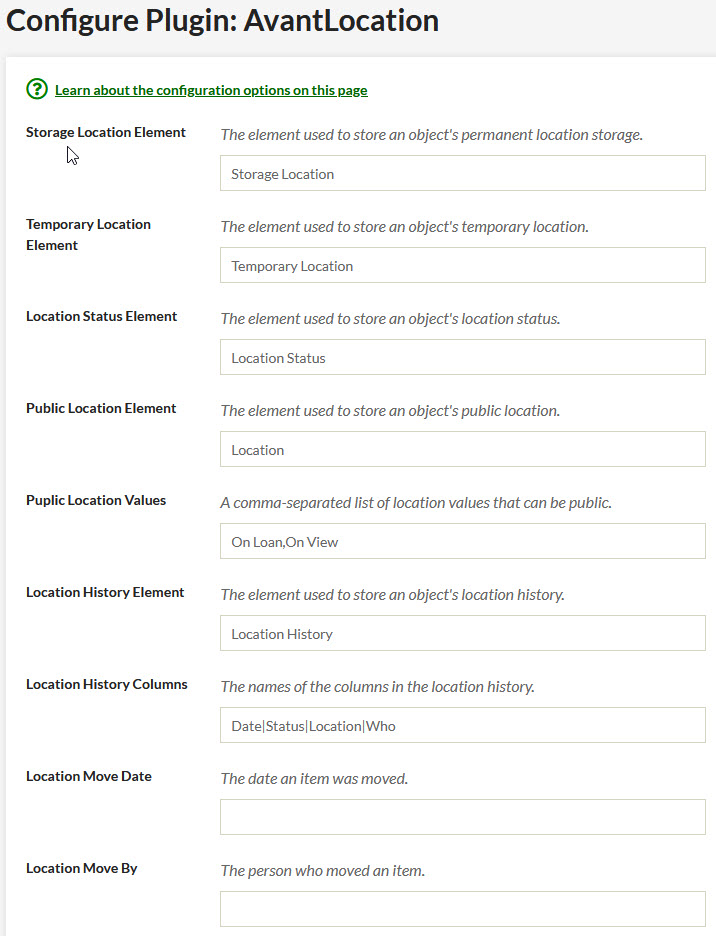
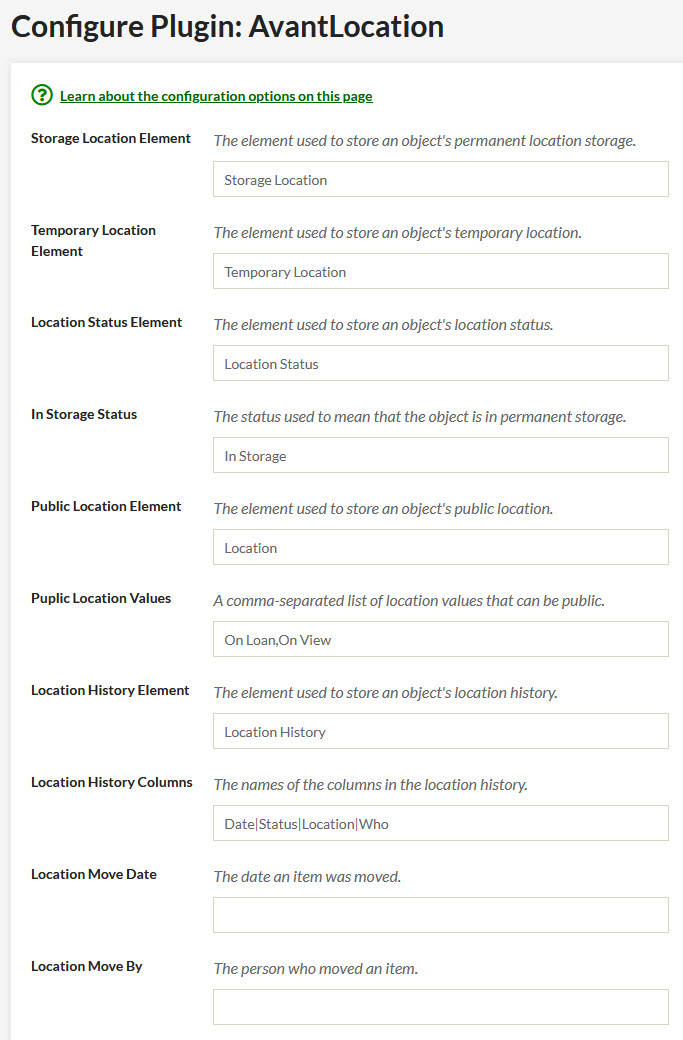
Content updates.

diff --git a/digital-archive/docs/plugins/avantlocation.md b/digital-archive/docs/plugins/avantlocation.md
@@ -1,8 +1,8 @@
 # AvantLocation
 
-The AvantLocation plugin provides a way for an organization, such as a museum, to track the physical location of an object over time as it moves from one location to another. For example, suppose you have a Digital Archive item for a bird carving that is in storage. You then move the object to be on view in the museum, later move it back to storage, then loan it to to another museum, and finally return it to storage. The plugin lets you record the dates and locations for each of these moves so that the object's Digital Archive item displays a history of where the object has been.
+The AvantLocation plugin provides a way for an organization, such as a museum, to track the physical location of an object over time as it moves from one place to another. For example, suppose you have a Digital Archive item for a bird carving that is in storage. You then move the object to be on view in the museum, later move it back to storage, then loan it to to another museum, and finally return it to storage. The plugin lets you record date and location for each move. When you view the object's Digital Archive item, you'll see a history of where the object has been.
 
-The plugin requires that you have defined four Omeka elements to store the following kinds of location information:
+The plugin operates on five Omeka elements that you create to store the following kinds of location information:
 
 - Permanent storage location
 - Temporary storage location
@@ -12,31 +12,33 @@ The plugin requires that you have defined four Omeka elements to store the follo
 
 You can use any names you like for the elements. You will tell the AvantLogic plugin the names of the elements using the configuration options described in the next section.
 
+You can create other location-related elements such as location notes, but the plugin does will do anything with them.
+
 ## Configuration options
 
-AvantLocation has several configuration options. A screenshot showing all the options appears at the end of this section. The first five options let your provide the names of the elements that you are using to track locations. The remaining options let you specify values that affect what information this plugin displays.
+AvantLocation has several configuration options. A screenshot showing all the options appears at the end of this section. The first five options let your provide the names of the elements that you are using to track locations. The remaining options let you specify values that affect what information the plugin displays.
 
 ---
 
 Storage Location Element
-:   Use this option to provide the name of the element that is used to record an object's permanent storage location. Typical values for this element would be a facility, room, shelf, bin, or folder. Use of the [Simple Vocab](https://omeka.org/classic/docs/Plugins/SimpleVocab/) plugin is a good way to provide a list of valid storage locations.
+:   Use this option to provide the name of the element that is used to record an object's permanent storage location. Typical values for this element would be a facility, room, shelf, bin, or folder. Use of the [Simple Vocab](https://omeka.org/classic/docs/Plugins/SimpleVocab/) plugin is a good way to provide a list of valid storage locations. You could also use a [suggest field](/plugins/avantelements/#suggest-option) for this element.
 
 Temporary Location Element
-:   Use this option to provide the name of the element that is used to record an object's temporary location when it is not in storage. Typical values will describe where the item resides on a temporary basis, for example, a gallery in your own museum, the name of another museum to which you have loaned the item, or the name of a restoration facility. Use of the [Simple Vocab](https://omeka.org/classic/docs/Plugins/SimpleVocab/) plugin is a good way to provide a list of valid temporary locations.
+:   Use this option to provide the name of the element that is used to record an object's temporary location when it is not in storage. The value describes where the item currently resides. Typical locations would be a gallery in your own museum, the name of another museum to which you have loaned the item, or the name of an offsite facility where the object is being restored. Use of the [Simple Vocab](https://omeka.org/classic/docs/Plugins/SimpleVocab/) plugin is a good way to provide a list of valid temporary locations.
 
-:   Think of the temporary location as any location that is not the permanent storage location. As such, when you move an object back to permanent storage, you should set the temporary location to blank. You can do this in one of two ways:
-
-    - Choose `<none>` from the dropdown list and the plugin will set the element to blank
-    - Choose `Select Below` from the dropdown list
+:   Think of the temporary location as *any location that is not the permanent storage location*. When you move an object back to permanent storage, the plugin will automatically set the temporary location to blank.
 
 Location Status Element
-:   Use this option to provide the name of the element that is used to record an object's location status. Typical values for this element would be On View, In Storage, and On Loan. Use of the [Simple Vocab](https://omeka.org/classic/docs/Plugins/SimpleVocab/) plugin is a good way to provide a list of valid status values.
+:   Use this option to provide the name of the element that is used to record an object's location status. Typical values for this element would be `On View`, `In Storage`, `On Loan`, or `Out for Restoration`. Use of the [Simple Vocab](https://omeka.org/classic/docs/Plugins/SimpleVocab/) plugin is a good way to provide a list of valid status values.
+
+In Storage Status
+:   Use this option to provide the text of the **Location Status** value that you use to mean that the object is in permanent storage. For example, set it to `In Storage`. It is important that the value you specify *exactly matches* the corresponding value used for the **Location Status** element.
 
 Public Location Element
-:   Use this option to provide the name of the read-only element that is used to store a location value this will be visible to the public. Leave the value blank if you don't show a location to the public. The Public Location element is discussed later in the [Public Location](/plugins/avantlocation/#public-location) section
+:   Use this option to provide the name of a read-only element that is used to store a location value this will be visible to the public. Leave this option blank if you never want to show a location to the public. The Public Location element is discussed later in the [Public Location](/plugins/avantlocation/#public-location) section
 
 Location History Element
-:   Use this option to provide the name of the element that is used to record an object's location history. The element should be a textarea field which is the default field type. This is explained later in the [Location History](/plugins/avantlocation/#location-history) section.
+:   Use this option to provide the name of the element that is used to record an object's location history. The element should be a textarea field which is the default field type. Location history is explained later in the [Location History](/plugins/avantlocation/#location-history) section.
 
 ---
 
@@ -50,7 +52,7 @@ Location Move Date
 :   Use this option to provide a date such as `2022-04-07` that the plugin will use when it automatically adds a new first row to the Location History element. Leave the value blank to use the current date.
 
 Location Move By
-:   Use this option to provide a the name of a person such as `gsmith` that the plugin will be use when it automatically adds a new first row to the Location History element. Leave the value blank to use the user name of the logged in Omeka user.
+:   Use this option to provide a the name of a person such as `jSmith` that the plugin will be use when it automatically adds a new first row to the Location History element. Leave the value blank to use the user name of the logged in Omeka user.
 
 ---
 Here is a screenshot showing all of the AvantLocation configuration options.
@@ -59,48 +61,70 @@ Here is a screenshot showing all of the AvantLocation configuration options.
 
 ---
 
+## What the plugin does
+
+The AvantLogic plugin automatically sets the values of these location tracking elements based on where you have indicated that an object has moved:
+
+-   **Location History**
+-   **Temporary Location**
+-   **Public Location**
+
+The behavior is designed to automatically track an object's movement with minimal effort on your part. In most cases, all you need to do is choose the **Location Status** and/or the **Temporary Location** and the plugin will update the history.
+
 ## How it works
 
-Whenever you change an object's location status and/or temporary location, the AvantLocation plugin does two things:
+When you edit and save an item to change an object's **Location Status** and/or **Temporary Location**, the AvantLocation plugin will:
 
-- Sets the value of the Public Location element
-- Adds a new first row to the Location History element
+- Add a new first row to the **Location History** element to show the new status and/or location.
+- If the **Location Status** is changed to the **In Storage Status** value, the plugin automatically sets the value of **Temporary Location** to blank.
+- If the **Location Status** is changed to anything except the **In Storage Status** value, the plugin will report an error if the  **Temporary Location** is blank.
+- Set the value of the read-only **Public Location** element to the new location, or to blank, as explained in the [Public Location](/plugins/avantlocation/#public-location) section below.
+
+When you edit and save an item to change an object's **Storage Location** and **Location Status** is set to the **In Storage Status** value, the AvantLocation plugin will:
+
+- Add a new first row to the **Location History** element to show the new storage location
 
 ### Public Location
 
-You will probably want to make all of your location tracking elements private so that the public cannot see them. There is one exception which is the Public Location element. This is an optional, read-only element that the AvantLocation plugin sets for you based based on the value of the private Location Status element and the values of the Public Location Values configuration option.
+You will probably want to make all of your location tracking elements private so that the public cannot see them. There is one exception which is the **Public Location** element. This is an optional, read-only element that the AvantLocation plugin automatically sets for you based on the value of the **Location Status** element and the value of the **Public Location Values** configuration option.
 
-In the screenshot above, the Public Location Values configuration option is set to `On Loan, On View`. Whenever the value of the Location Status element is set to one of those values, the plugin will set the Public Location element to the same value. But when the Location Status element is set to another value, the plugin will set the Public Location element to blank which means it will not appear at all to public users. For example, when the Location Status is set to `In Storage`, the Public Location element will be set to blank because `In Storage` does not match `On Loan` and `On View`.
+In the screenshot above, the **Public Location Values** configuration option is set to `On Loan,On View`. Whenever the value of the **Location Status** element is set to one of those values, the plugin will set the **Public Location** element to the same value. But when the **Location Status** element is set to another value, the plugin will set the **Public Location** element to blank so that it will not appear at all to public users. For example, when **Location Status** is set to `In Storage`, the **Public Location** element will be set to blank because `In Storage` does not match `On Loan` or `On View`.
 
 ### Location History
 
-The Location History element uses a textarea field to maintain a history in reverse-chronological order (most recent move appears at the top of the field). The AvantLogic plugin automatically adds a new first row to this field whenever you change an object's location status and/or temporary location. When the temporary location is not blank, the row shows the temporary location. When the temporary location is blank, the row shows the permanent location. This way you can see where the item has been, even when its permanent storage location has changed.
+The **Location History** element uses a textarea field to maintain a history in reverse-chronological order (most recent move appears at the top of the field). The AvantLogic plugin automatically adds a new first row to this field whenever you change an object's **Location Status** and/or **Temporary Location**. When **Temporary Location** is not blank, the row shows the **Temporary Location** value. When **Temporary Location** is blank, the row shows the **Storage Location** value.
+
+---
 
 **Editing location tracking fields**
 
-The screenshot below shows how location tracking elements look on the Edit page.
+The screenshot below shows how location tracking elements look on the Omeka Edit page.
 
 ![AvantLocation configuration page](avantlocation-2.jpg)
 
-In this example, Location Status is `In Storage` and the Public Location Values configuration option is set to `On Loan, On View` and so the plugin will set the value of the Location element to blank. Notice in the screenshot above, the Location field (first field) shows gray text that says "Not shown to the public". That's because the field uses the [AvantElements Placeholder](/plugins/avantelements/#placeholder-option) option to show that text on the Edit page when the field has no value.
+In this example, **Location Status** is `In Storage` and so there is no **Temporary Location** value. The **Public Location Values** configuration option is set to `On Loan,On View` and so the plugin set the value of the **Location** element to blank. Notice in the screenshot above that the **Location** field shows gray text that says "Not shown to the public". That's because the field uses the [AvantElements Placeholder](/plugins/avantelements/#placeholder-option) option to show that text on the Edit page when the field has no value.
 
-You can see that the first row of the Location History field reflects the object's location status and location. The remaining rows show where the object has been for the past few years. The individual values in the Location History field rows are separated by a `|` which the AvantLogic plugin interprets as a table column separator.
+You can see that the first row of the **Location History** field reflects the object's current location status and location. The remaining rows show where the object has been for the past few years. The individual values in the **Location History** field rows are separated by a `|` which the AvantLogic plugin interprets as a table column separator.
 
-You can edit the contents of the Location History element if you need to, for example, to correct a date or the identifier of the person responsible for the move. Just be careful to keep the `|` separators in the right places.
+You can edit the contents of the **Location History** element if you need to, for example, to correct a date or the identifier of the person responsible for the move. Just be careful to keep the `|` separators in the right places.
+
+---
 
 **Viewing location tracking fields**
 
 The screenshot below shows how location tracking elements look when a logged-in user is viewing an item. The gray italic elements names are to remind you that those fields are private.
 
-The table's column titles come from the plugin's Location History Columns configuration option.
+The table's column titles (Date, Status, Location, and Who) come from the plugin's **Location History Columns** configuration option.
 
 ![AvantLocation configuration page](avantlocation-3.jpg)
 
-Notice how when the object went back into storage on 2022-04-08, it was stored in a new location. The plugin automatically records the current value of the Storage Location element in the history whenever the Temporary Location element's value is blank or `<none>`. Thus, if the storage location changes, the new location is recorded in the history.
+Notice how when the object went back into storage on `2022-04-08`, it was stored in a new location (archive room instead of basement). The plugin automatically records the current value of the **Storage Location** element in the history whenever the **Temporary Location** element's value is blank or `<none>`. Thus, if the object is moved to a new storage location, the new location gets recorded in the history.
 
 **Changing the location for a batch of items**
 
-When you need to change the location information for a batch of items, such as when loaning several objects to another museum, you can use the Location Move Date and Location Move By fields on the AvantLocation configuration page to set a date and a person identifier that will be used as the Date and Who values in the Location History. This way, the date can reflect the actual date of the move (instead of the date on which you edit the items) and the person can be someone other than the Digital Archive administrator who is making the changes.
+When you need to change the location information for a batch of items, such as when loaning several objects to another museum, you can use the **Location Move Date** and **Location Move By** fields on the [AvantLocation configuration](/plugins/avantlocation/#configuration-options) page to set a date and a person identifier that will be used as the Date and Who values in the **Location History**. This way, the date can reflect the actual date of the move (instead of the date on which you edit the items) and the person can be someone other than the Digital Archive administrator who is editing the items.
+
+When you are done editing a batch of items, be sure to go back to the AvantLocation configuration page to set the **Location Move Date** and **Location Move By** back to blank.
 
 
 ## Dependencies
@@ -143,7 +167,7 @@ Copyright
 
 -   Created by [gsoules](https://github.com/gsoules) 
 -   Copyright George Soules, 2022.
--   See [LICENSE](https://github.com/gsoules/AvantHybrid/blob/master/LICENSE) for more information.
+-   See [LICENSE](https://github.com/gsoules/AvantLocation/blob/master/LICENSE) for more information.
 
 [AvantCommon]: avantcommon.md
 
